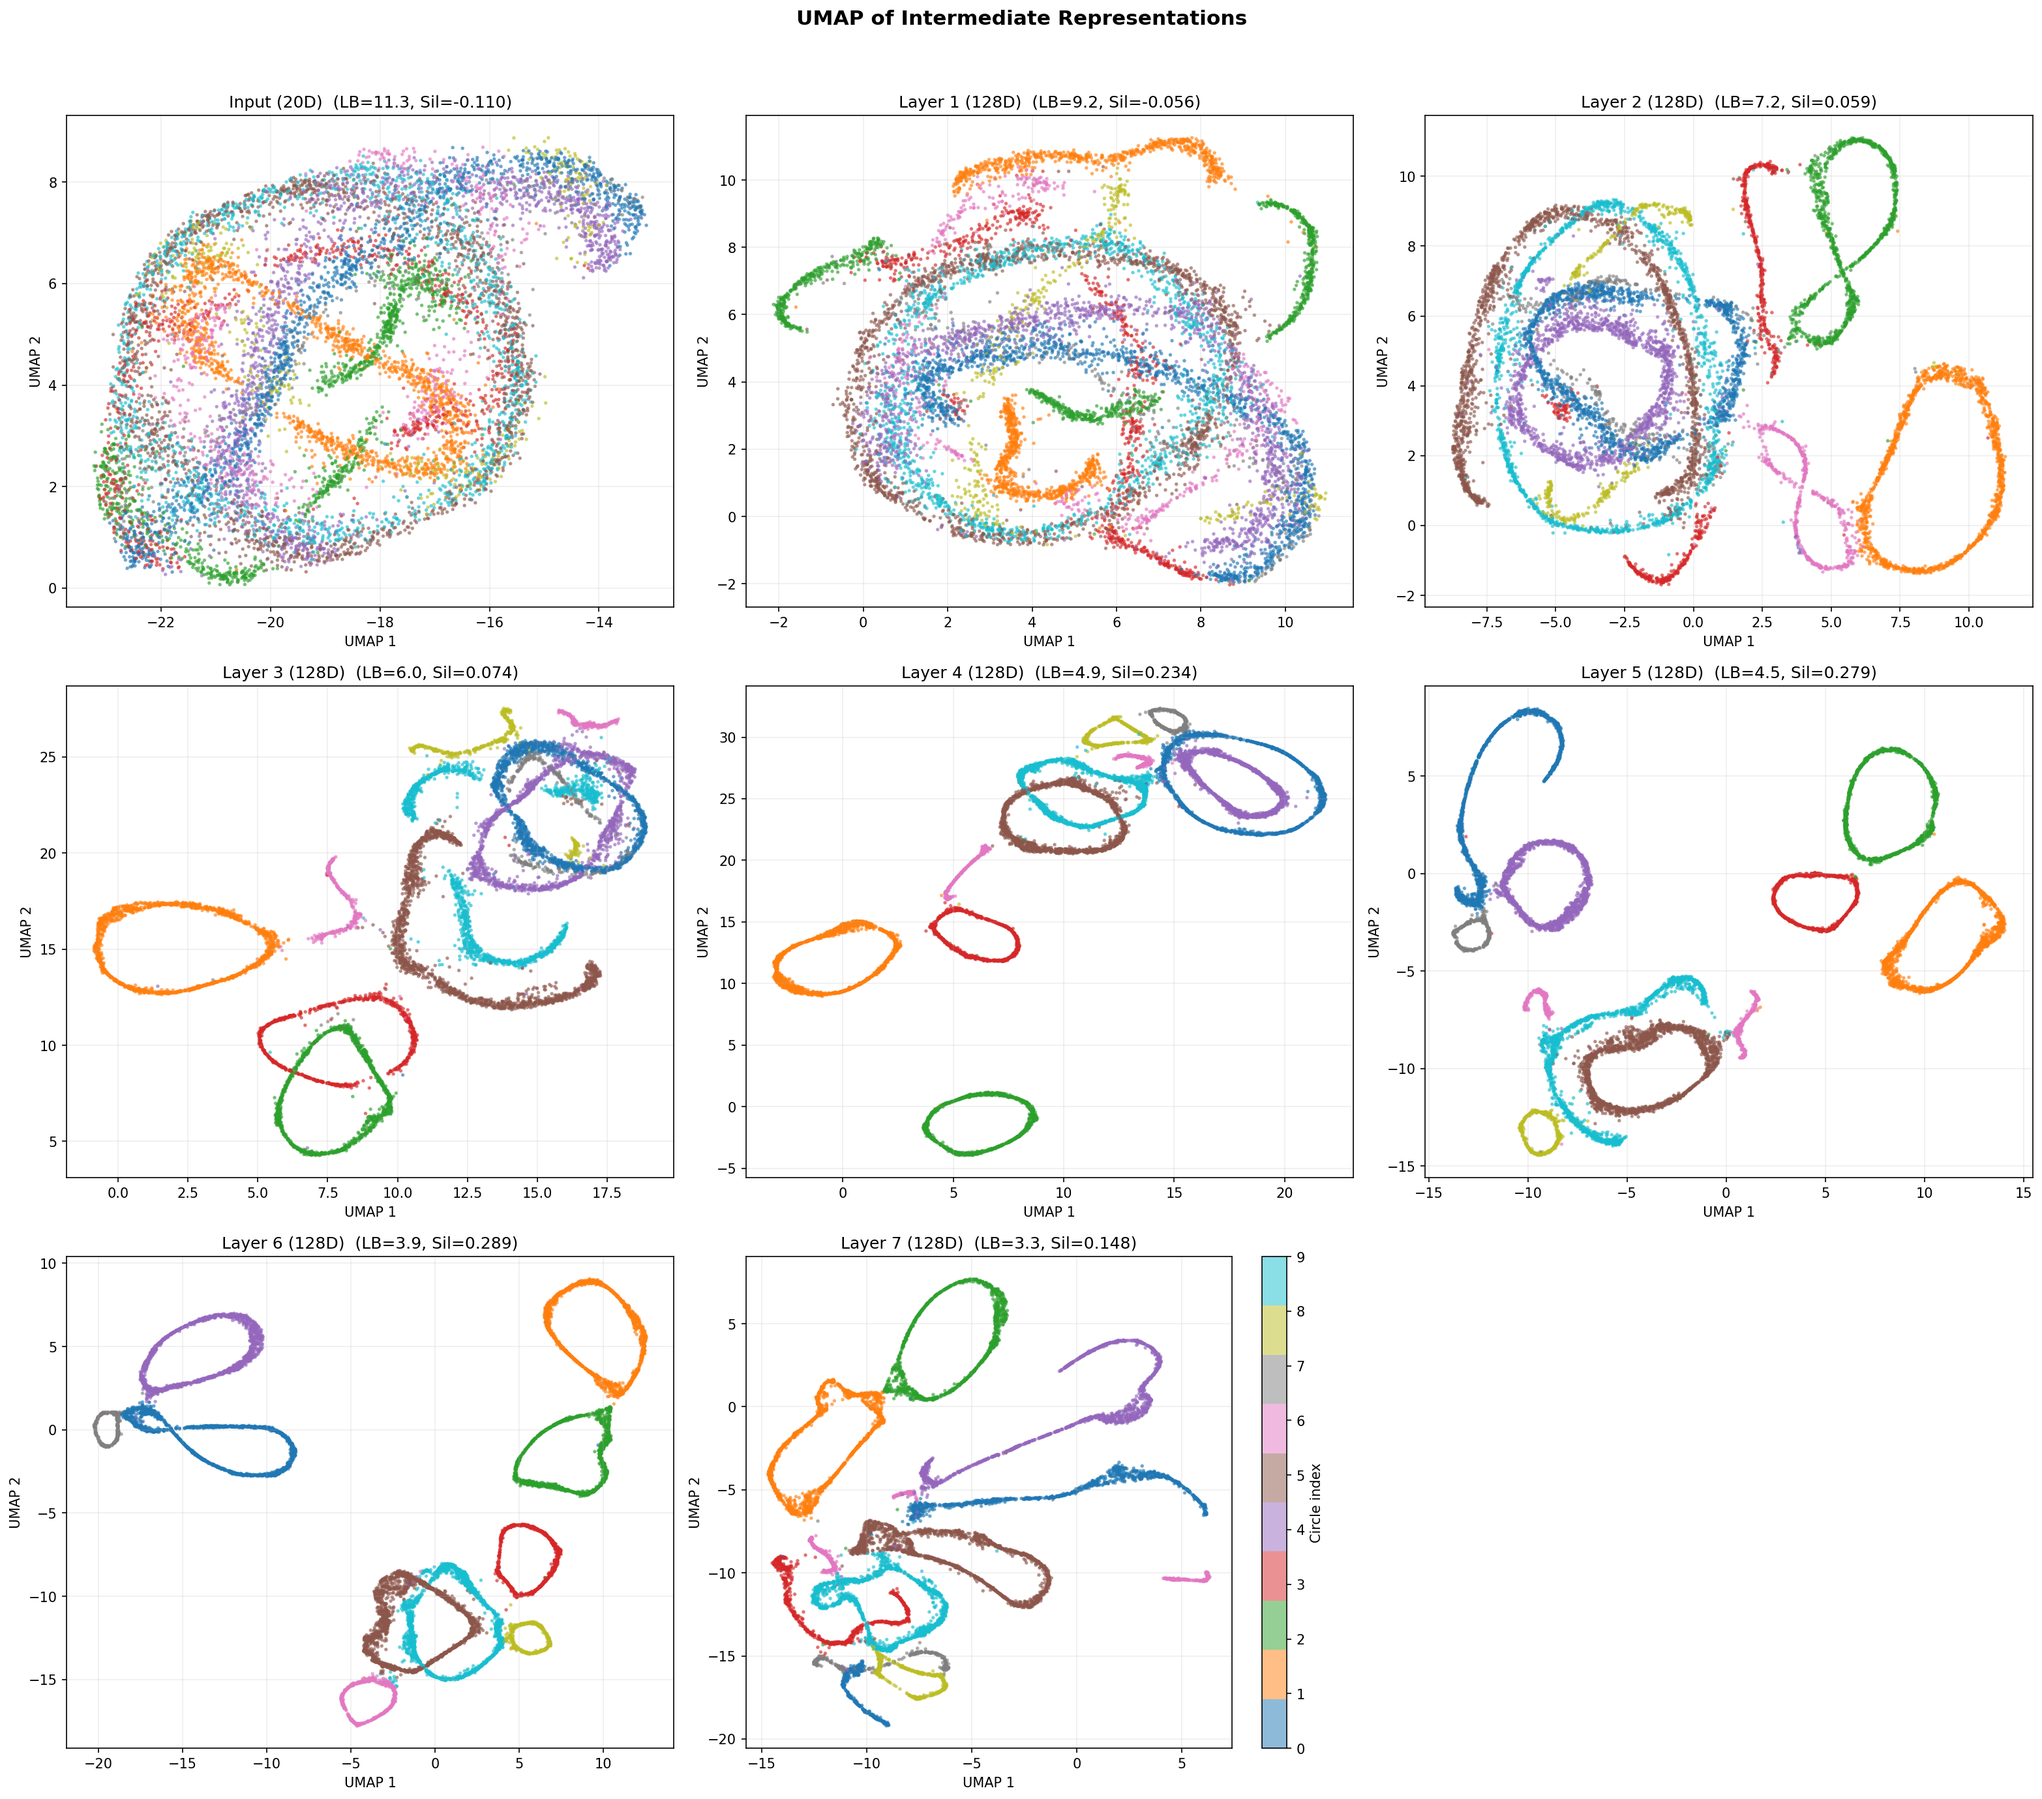
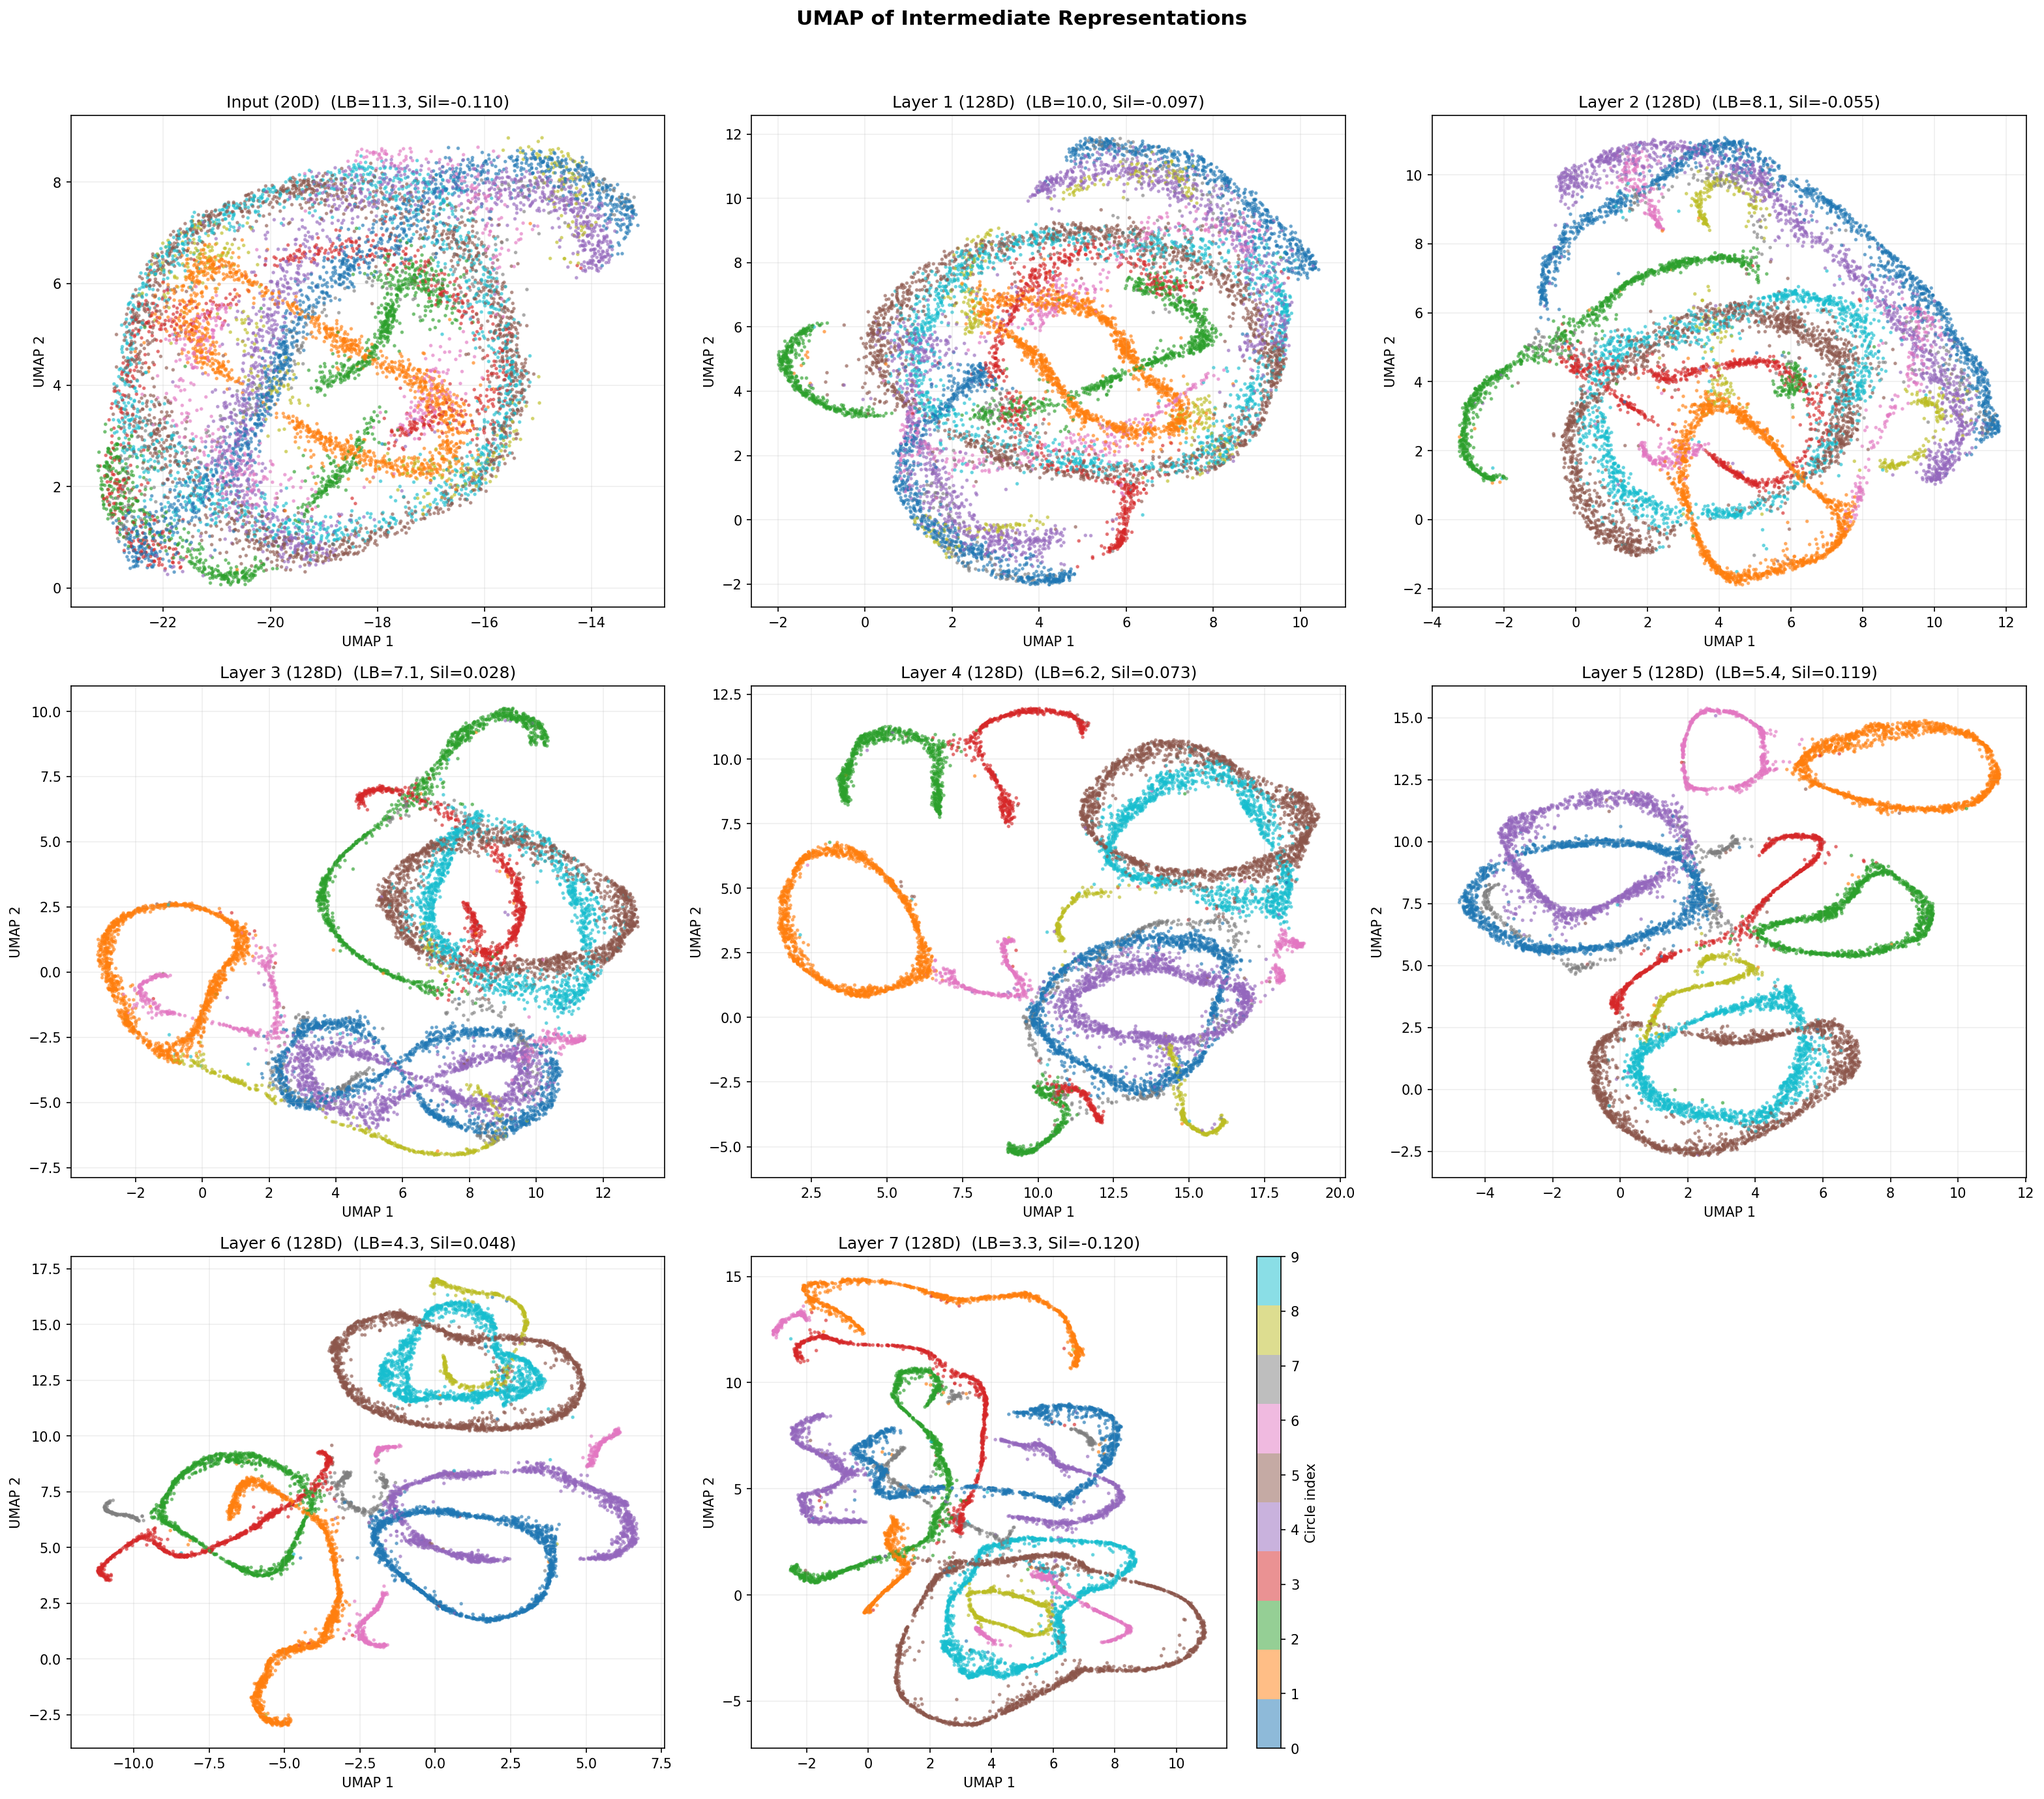
Update BERT baseline with matched mask sizes (16-256, 25%)
Fairer comparison: both models now use identical masking config.
JEPA Sil=0.61 vs BERT Sil=0.12 at best layers.

Made-with: Cursor

diff --git a/README.md b/README.md
@@ -36,11 +36,11 @@ The target encoder is updated via EMA after each optimiser step, with a cosine m
 
 ![JEPA UMAP](representation_umap_jepa_model.png)
 
-### BERT baseline representations (7 layers, RoPE)
+### BERT baseline representations (7 layers, RoPE, matched masks)
 
 ![BERT UMAP](representation_umap_bert_model.png)
 
-JEPA produces significantly better cluster separation than the BERT baseline across all layers, peaking at **Sil=0.61** (layer 6) vs **Sil=0.29** (BERT layer 6).
+Both models use identical masking (patches 16–256, 25% ratio), 7 RoPE encoder layers, and the same dataset. JEPA produces significantly better cluster separation, peaking at **Sil=0.61** (layer 6) vs **Sil=0.12** (BERT layer 5).
 
 ## GPU Optimisations
 
